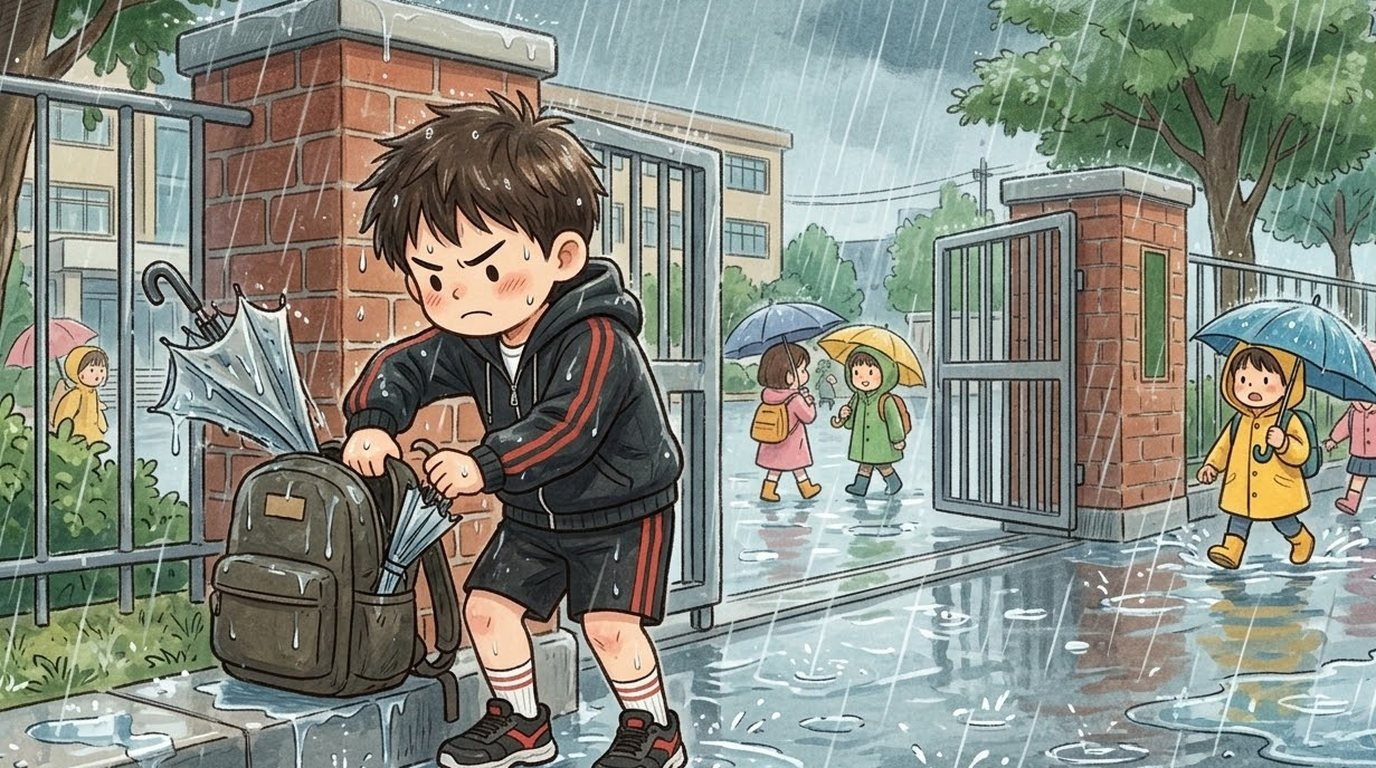
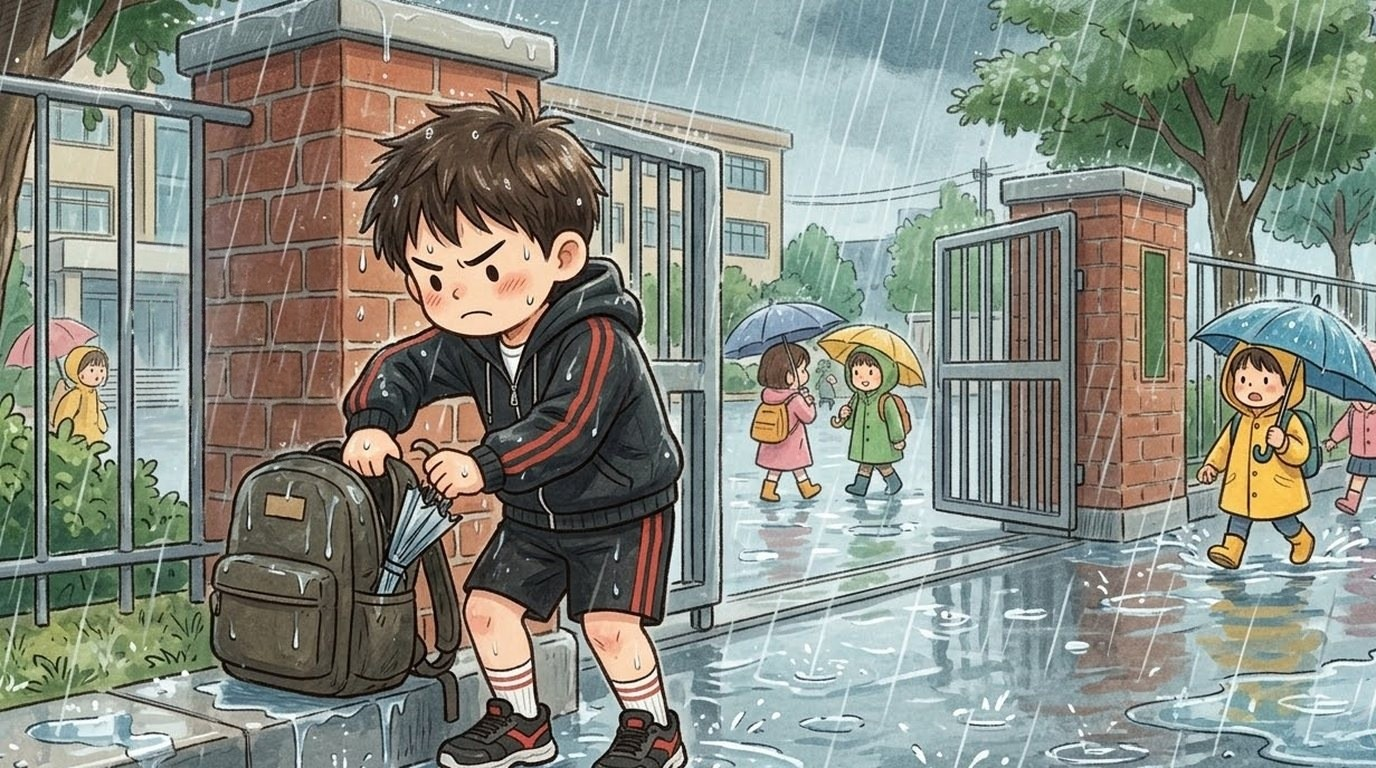
Minho day 9: minho_08g shows one umbrella only - the broken one folded and tucked into his backpack (the extra open umbrella by the pillar removed) (boss 11/07, BUILD 1107150015)

Changed region(s): [[0.0938, 0.3438, 0.25, 0.5938]]

diff --git a/index.html b/index.html
@@ -119,14 +119,14 @@ body,button{word-break:keep-all;overflow-wrap:break-word}
 <div id="fader"></div>
 <script>
 // same address, newest version: if the page this phone has kept is older than the one online, fetch the new one and reopen
-const BUILD='1107144728';
+const BUILD='1107150015';
 try{fetch(location.pathname,{cache:'no-store'}).then(r=>r.text()).then(t=>{const m=t.match(/const BUILD='(\d+)'/);if(m&&m[1]!==BUILD&&sessionStorage.getItem('upd')!==m[1]){sessionStorage.setItem('upd',m[1]);fetch(location.pathname,{cache:'reload'}).then(()=>location.reload())}}).catch(()=>{})}catch(e){}
 </script>
-<script src="i18n.js?v=1107144728"></script>
-<script src="i18n_prologue_v2.js?v=1107144728"></script>
-<script src="day2/i18n_engine.js?v=1107144728"></script>
-<script src="day2/data.js?v=1107144728"></script>
-<script src="day3/data.js?v=1107144728"></script>
+<script src="i18n.js?v=1107150015"></script>
+<script src="i18n_prologue_v2.js?v=1107150015"></script>
+<script src="day2/i18n_engine.js?v=1107150015"></script>
+<script src="day2/data.js?v=1107150015"></script>
+<script src="day3/data.js?v=1107150015"></script>
 <script>
 // ---------- data ----------
 const MW=1672,MH=941,KID=180;
@@ -569,35 +569,35 @@ function pickHero(){const m=document.getElementById('modal'),c=document.getEleme
  c.innerHTML=`<h2>${tr('전학생 반장되기')}</h2><p>${tr('한국말이 아직 서툰 전학생,<br>반장 선거에 나가다.')}</p><p style="margin-top:14px">${tr('누구로 할까요?')}</p>${(()=>{const s=loadSave();return s&&s.day>=2&&s.mode===UI+'-'+LANG?`<p><button class="big" id="cont">${tr('{n}일차부터 이어 하기').replace('{n}',s.day)}</button></p>`:''})()}<div class="pick heroes"><button data-h="hero_f"><img src="faces/hero_f_smile.jpg" alt="여자 주인공">${heroName(1)}</button><button data-h="hero_m"><img src="faces/hero_m_smile.jpg" alt="남자 주인공">${heroName(0)}</button></div>`;
  m.classList.add('on');{const cb=document.getElementById('cont');if(cb)cb.onclick=()=>{const s=loadSave();HERO=s.hero;Object.assign(HEART,s.heart||{});(s.found||[]).forEach(k=>FOUND.add(k));HEART_D1={...HEART};chime();(typeof contGame==='function'?contGame(s):startDay(Math.min(s.day,Object.keys(window.D3||{}).length?3:2)))}}c.querySelectorAll('.pick button').forEach(b=>b.onclick=()=>{HERO=b.dataset.h;m.classList.remove('on');chime();bgm('day');load('home_am');say([['nar','','이사 온 다음 날 아침. 아직 풀지 못한 상자들이 쌓여 있다.'],['think','sad','(오늘부터 새 학교야. 여기 말도 아직 서툰데…….)'],['think','smile','({m}한테 인사하고 학교 가야지.)']],morning)})}
 </script>
-<script src="day2/engine.js?v=1107144728"></script>
-<script src="day2/ep_minho.js?v=1107144728"></script>
-<script src="day2/meet.js?v=1107144728"></script>
-<script src="day2/ep_sua.js?v=1107144728"></script>
-<script src="day2/ep_hangyeol.js?v=1107144728"></script>
-<script src="day2/ep_siwoo.js?v=1107144728"></script>
-<script src="day2/ep_haram.js?v=1107144728"></script>
-<script src="day2/ep_jiho.js?v=1107144728"></script>
-<script src="day2/ep_hyeeun.js?v=1107144728"></script>
-<script src="day2/ep_haneul.js?v=1107144728"></script>
-<script src="day2/ep_junho.js?v=1107144728"></script>
-<script src="day2/ep_yuna.js?v=1107144728"></script>
-<script src="day2/ep_yena.js?v=1107144728"></script>
-<script src="day2/ep_haeun.js?v=1107144728"></script>
-<script src="day2/ep_youngmin.js?v=1107144728"></script>
-<script src="day2/ep_seah.js?v=1107144728"></script>
-<script src="day2/ep_jihoon.js?v=1107144728"></script>
-<script src="words_ja_ru.js?v=1107144728"></script>
-<script src="day2/mybag.js?v=1107144728"></script>
-<script src="day2/wordpics.js?v=1107144728"></script>
-<script src="day2/spots.js?v=1107144728"></script>
-<script src="day2/textfit.js?v=1107144728"></script>
-<script src="day2/tester.js?v=1107144728"></script>
-<script src="day2/ux.js?v=1107144728"></script>
-<script src="day2/tapword.js?v=1107144728"></script>
-<script src="day2/review.js?v=1107144728"></script>
-<script src="day2/plane.js?v=1107144728"></script>
-<script src="day2/ep_ending.js?v=1107144728"></script>
-<script src="day2/ending.js?v=1107144728"></script>
+<script src="day2/engine.js?v=1107150015"></script>
+<script src="day2/ep_minho.js?v=1107150015"></script>
+<script src="day2/meet.js?v=1107150015"></script>
+<script src="day2/ep_sua.js?v=1107150015"></script>
+<script src="day2/ep_hangyeol.js?v=1107150015"></script>
+<script src="day2/ep_siwoo.js?v=1107150015"></script>
+<script src="day2/ep_haram.js?v=1107150015"></script>
+<script src="day2/ep_jiho.js?v=1107150015"></script>
+<script src="day2/ep_hyeeun.js?v=1107150015"></script>
+<script src="day2/ep_haneul.js?v=1107150015"></script>
+<script src="day2/ep_junho.js?v=1107150015"></script>
+<script src="day2/ep_yuna.js?v=1107150015"></script>
+<script src="day2/ep_yena.js?v=1107150015"></script>
+<script src="day2/ep_haeun.js?v=1107150015"></script>
+<script src="day2/ep_youngmin.js?v=1107150015"></script>
+<script src="day2/ep_seah.js?v=1107150015"></script>
+<script src="day2/ep_jihoon.js?v=1107150015"></script>
+<script src="words_ja_ru.js?v=1107150015"></script>
+<script src="day2/mybag.js?v=1107150015"></script>
+<script src="day2/wordpics.js?v=1107150015"></script>
+<script src="day2/spots.js?v=1107150015"></script>
+<script src="day2/textfit.js?v=1107150015"></script>
+<script src="day2/tester.js?v=1107150015"></script>
+<script src="day2/ux.js?v=1107150015"></script>
+<script src="day2/tapword.js?v=1107150015"></script>
+<script src="day2/review.js?v=1107150015"></script>
+<script src="day2/plane.js?v=1107150015"></script>
+<script src="day2/ep_ending.js?v=1107150015"></script>
+<script src="day2/ending.js?v=1107150015"></script>
 <script>
 // the goal shows big for a few seconds, then folds into a small pill (tap it to open it again)
 {const g=document.getElementById('goal');let t=null;const big=()=>{g.classList.remove('mini');clearTimeout(t);t=setTimeout(()=>g.classList.add('mini'),4000)};
